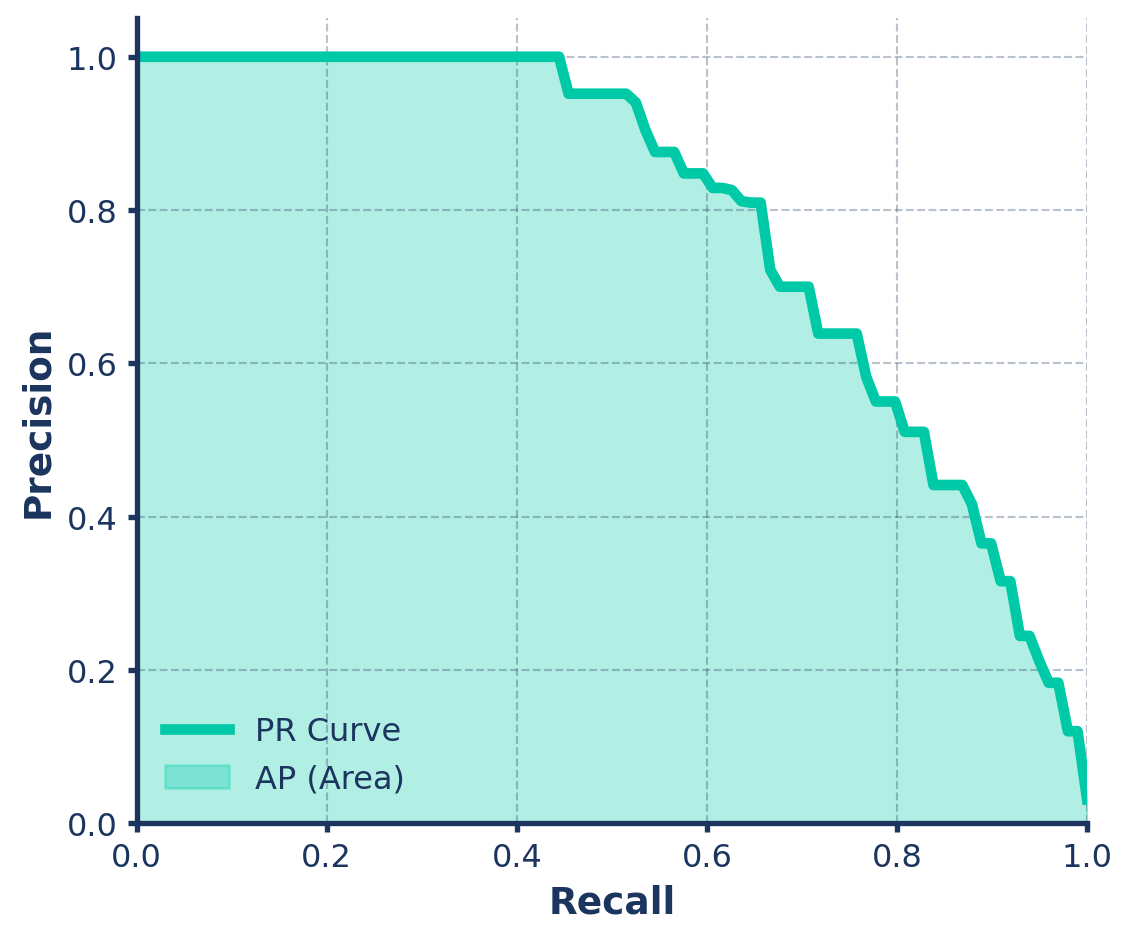
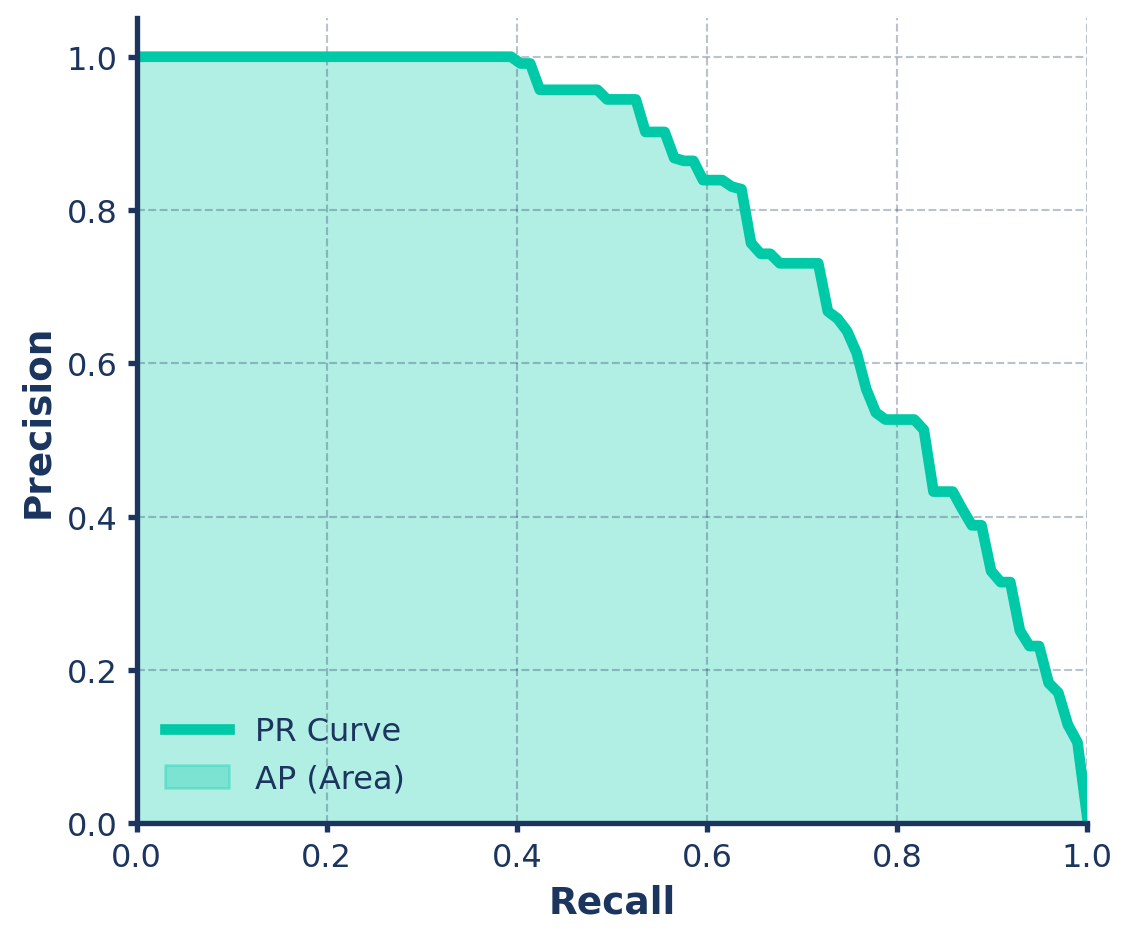
reorder slides

diff --git a/docs/slides/Ultralytics_Foundations_3_Evaluation_Deployment.html b/docs/slides/Ultralytics_Foundations_3_Evaluation_Deployment.html
@@ -9,7 +9,7 @@
 <link href="Ultralytics_Foundations_3_Evaluation_Deployment_files/libs/quarto-html/quarto-syntax-highlighting-587c61ba64f3a5504c4d52d930310e48.css" rel="stylesheet" id="quarto-text-highlighting-styles"><meta charset="utf-8">
   <meta name="generator" content="quarto-1.8.26">
 
-  <meta name="dcterms.date" content="2026-03-09">
+  <meta name="dcterms.date" content="2026-03-11">
   <title>Ultralytics YOLO Foundations: Part 3</title>
   <meta name="apple-mobile-web-app-capable" content="yes">
   <meta name="apple-mobile-web-app-status-bar-style" content="black-translucent">
@@ -203,7 +203,7 @@
 <div class="quarto-title-authors">
 </div>
 
-  <p class="date">2026-03-09</p>
+  <p class="date">2026-03-11</p>
 </section>
 <section>
 <section id="model-evaluation" class="title-slide slide level1 sdaia-dark center" data-background-gradient="linear-gradient(135deg, #1C355E, #00C9A7)">
@@ -224,7 +224,7 @@
 <h2>The Confusion Matrix</h2>
 <div class="columns">
 <div class="column" style="width:60%;">
-<div id="b035315c" class="cell" data-execution_count="1">
+<div id="adeb4857" class="cell" data-execution_count="1">
 <div class="cell-output cell-output-display">
 <div class="quarto-figure quarto-figure-center">
 <figure>
@@ -266,10 +266,19 @@ Recall   : 0.75</code></pre>
 <p>This is the <strong>Class Imbalance Problem</strong>, common in object detection where most of an image is empty background.</p>
 </div>
 </section>
+<section id="precision-recall-and-f1" class="slide level2">
+<h2>Precision, Recall, and F1</h2>
+<p>To solve the Class Imbalance Problem, we focus on metrics that ignore True Negatives:</p>
+<ul>
+<li><strong>Precision:</strong> When it guesses an object, is it correct? (Quality) <span class="math display">\[Precision = \frac{TP}{TP + FP}\]</span></li>
+<li><strong>Recall:</strong> Out of all actual objects, how many did it find? (Quantity) <span class="math display">\[Recall = \frac{TP}{TP + FN}\]</span></li>
+<li><strong>F1-Score:</strong> The harmonic mean of Precision and Recall. <span class="math display">\[F_1 = 2 \times \frac{Precision \times Recall}{Precision + Recall}\]</span></li>
+</ul>
+</section>
 <section id="intersection-over-union-iou" class="slide level2">
 <h2>Intersection over Union (IoU)</h2>
 <p>How perfectly does the predicted bounding box overlap the <em>ground truth</em> box?</p>
-<div id="fdb121a4" class="cell" data-execution_count="2">
+<div id="432a6c60" class="cell" data-execution_count="2">
 <div class="cell-output cell-output-display">
 <div class="quarto-figure quarto-figure-center">
 <figure>
@@ -280,22 +289,22 @@ Recall   : 0.75</code></pre>
 </div>
 <p><strong>Rule of Thumb</strong>: A prediction is typically considered a “True Positive” (correct) if the IoU is &gt; 0.50.</p>
 </section>
-<section id="the-per-class-breakdown" class="slide level2">
-<h2>1. The Per-Class Breakdown</h2>
+<section id="evaluating-a-single-class-tp-fp-fn" class="slide level2">
+<h2>Evaluating a Single Class (TP, FP, FN)</h2>
 <p>When we evaluate the “Car” class, we ignore everything else.</p>
 <ul>
 <li><strong>True Positive (TP):</strong> The model predicted “Car,” and there is a “Car” at that spot with an <span class="math inline">\(IoU \ge 0.5\)</span>.</li>
-<li><strong>False Positive (FP):</strong> The model predicted “Car,” but there is no “Car” there (it might be a “Truck,” or just empty background).</li>
-<li><strong>False Negative (FN):</strong> There is a “Car” in the image, but the model either missed it entirely or labeled it as something else.</li>
+<li><strong>False Positive (FP):</strong> The model predicted “Car,” but there is no “Car” there, <strong>or the bounding box is inaccurate (IoU <span class="math inline">\(&lt; 0.5\)</span>)</strong>.</li>
+<li><strong>False Negative (FN):</strong> There is a “Car” in the image, but the model missed it, labeled it incorrectly, or predicted it with a poor IoU (<span class="math inline">\(&lt; 0.5\)</span>).</li>
 </ul>
 <p><em>(Note: True Negatives are rarely used in object detection due to the massive empty background).</em></p>
 </section>
-<section id="dealing-with-multiple-detections" class="slide level2">
-<h2>2. Dealing with Multiple Detections</h2>
+<section id="handling-multiple-detections" class="slide level2">
+<h2>Handling Multiple Detections</h2>
 <p>A common question is: “What if the model predicts two boxes for the same car?”</p>
 <div class="columns">
 <div class="column" style="width:50%;">
-<div id="acb62b94" class="cell" data-execution_count="3">
+<div id="8af35bd9" class="cell" data-execution_count="3">
 <div class="cell-output cell-output-display">
 <div class="quarto-figure quarto-figure-center">
 <figure>
@@ -308,17 +317,9 @@ Recall   : 0.75</code></pre>
 <ul>
 <li class="fragment">The box with the <strong>highest IoU</strong> (Pred 1, solid red) is the <strong>True Positive (TP)</strong>.</li>
 <li class="fragment">The second box (Pred 2, dashed orange) is automatically a <strong>False Positive (FP)</strong>, even if it overlaps the car.</li>
+<li class="fragment"><strong>Low IoU (&lt; 0.50)</strong>: The prediction is treated as background (<strong>FP</strong>). If no other box claims the object, it also becomes a <strong>FN</strong>.</li>
 </ul>
 </div></div>
-</section>
-<section id="object-detection-metrics" class="slide level2">
-<h2>Object Detection Metrics</h2>
-<p>To solve the Class Imbalance Problem, we focus on metrics that ignore True Negatives:</p>
-<ul>
-<li><strong>Precision:</strong> When it guesses an object, is it correct? (Quality) <span class="math display">\[Precision = \frac{TP}{TP + FP}\]</span></li>
-<li><strong>Recall:</strong> Out of all actual objects, how many did it find? (Quantity) <span class="math display">\[Recall = \frac{TP}{TP + FN}\]</span></li>
-<li><strong>F1-Score:</strong> The harmonic mean of Precision and Recall. <span class="math display">\[F_1 = 2 \times \frac{Precision \times Recall}{Precision + Recall}\]</span></li>
-</ul>
 </section>
 <section id="the-confidence-threshold-trade-off" class="slide level2">
 <h2>The Confidence Threshold Trade-off</h2>
@@ -340,8 +341,8 @@ Recall   : 0.75</code></pre>
 <h2>Interactive Demo: Threshold Trade-off</h2>
 <iframe class="interactive-demo" src="demo_threshold.html" width="100%" height="90%" style="border:none; overflow:hidden;"></iframe>
 </section>
-<section id="the-ranking-process" class="slide level2">
-<h2>3. The Ranking Process</h2>
+<section id="the-pr-curve-average-precision-ap" class="slide level2">
+<h2>The PR Curve &amp; Average Precision (AP)</h2>
 <div class="columns">
 <div class="column" style="width:50%;">
 <p><br></p>
@@ -358,7 +359,7 @@ Recall   : 0.75</code></pre>
 </div>
 <p><br></p>
 </div><div class="column" style="width:50%;">
-<div id="32bf192a" class="cell" data-execution_count="4">
+<div id="de59b24b" class="cell" data-execution_count="4">
 <div class="cell-output cell-output-display">
 <div class="quarto-figure quarto-figure-center">
 <figure>
@@ -381,8 +382,8 @@ Recall   : 0.75</code></pre>
 </div>
 </div></div>
 </section>
-<section id="from-ap-to-map" class="slide level2">
-<h2>4. From AP to mAP</h2>
+<section id="mean-average-precision-map" class="slide level2">
+<h2>Mean Average Precision (mAP)</h2>
 <p>Once we have the AP for every class (Cars, Pedestrians, Trees, etc.), we simply take the arithmetic mean.</p>
 <p><span class="math display">\[mAP = \frac{AP_{cars} + AP_{pedestrians} + AP_{trees} + ...}{Total\ Number\ of\ Classes}\]</span></p>
 <ul>

diff --git a/docs/slides/Ultralytics_Foundations_1_Tasks_Inference.html b/docs/slides/Ultralytics_Foundations_1_Tasks_Inference.html
@@ -9,7 +9,7 @@
 <link href="Ultralytics_Foundations_1_Tasks_Inference_files/libs/quarto-html/quarto-syntax-highlighting-587c61ba64f3a5504c4d52d930310e48.css" rel="stylesheet" id="quarto-text-highlighting-styles"><meta charset="utf-8">
   <meta name="generator" content="quarto-1.8.26">
 
-  <meta name="dcterms.date" content="2026-03-09">
+  <meta name="dcterms.date" content="2026-03-11">
   <title>Ultralytics YOLO Foundations: Part 1</title>
   <meta name="apple-mobile-web-app-capable" content="yes">
   <meta name="apple-mobile-web-app-status-bar-style" content="black-translucent">
@@ -203,7 +203,7 @@
 <div class="quarto-title-authors">
 </div>
 
-  <p class="date">2026-03-09</p>
+  <p class="date">2026-03-11</p>
 </section>
 <section>
 <section id="first-steps-what-can-yolo-do" class="title-slide slide level1 sdaia-dark center" data-background-gradient="linear-gradient(135deg, #1C355E, #00C9A7)">
@@ -241,7 +241,7 @@
 <h2>Image Classification Output Concept</h2>
 <div class="columns">
 <div class="column" style="width:55%;">
-<div id="4a17e6a0" class="cell" data-execution_count="2">
+<div id="5ede1636" class="cell" data-execution_count="2">
 <div class="cell-output cell-output-display">
 <div class="quarto-figure quarto-figure-center">
 <figure>
@@ -287,7 +287,7 @@
 <h2 data-id="quarto-animate-title">Object Detection Output &amp; Confidence</h2>
 <div class="columns" data-id="model-output">
 <div class="column" style="width:55%;">
-<div id="f49a497b" class="cell" data-execution_count="3">
+<div id="3f90b9da" class="cell" data-execution_count="3">
 <div class="cell-output cell-output-display">
 <div class="quarto-figure quarto-figure-center">
 <figure>
@@ -317,7 +317,7 @@
 <h2 data-id="quarto-animate-title">Mapping to Bounding Boxes</h2>
 <div class="columns" data-id="model-output">
 <div class="column" style="width:55%;">
-<div id="c6473fac" class="cell" data-execution_count="4">
+<div id="[phone redacted]" class="cell" data-execution_count="4">
 <div class="cell-output cell-output-display">
 <div class="quarto-figure quarto-figure-center">
 <figure>
@@ -411,7 +411,7 @@ y_{max} &amp;= cy + \frac{h}{2} = 7.5 + 3.5 = 11.0
 <h2>Instance Segmentation Output Concept</h2>
 <div class="columns">
 <div class="column" style="width:55%;">
-<div id="26af2dfb" class="cell" data-execution_count="5">
+<div id="d5f4a972" class="cell" data-execution_count="5">
 <div class="cell-output cell-output-display">
 <div class="quarto-figure quarto-figure-center">
 <figure>
@@ -451,7 +451,7 @@ y_{max} &amp;= cy + \frac{h}{2} = 7.5 + 3.5 = 11.0
 <h2>Pose Estimation Output Concept</h2>
 <div class="columns">
 <div class="column" style="width:55%;">
-<div id="e4a7a387" class="cell" data-execution_count="6">
+<div id="bbf36e05" class="cell" data-execution_count="6">
 <div class="cell-output cell-output-display">
 <div class="quarto-figure quarto-figure-center">
 <figure>
@@ -492,7 +492,7 @@ y_{max} &amp;= cy + \frac{h}{2} = 7.5 + 3.5 = 11.0
 <h2>OBB (Oriented Bounding Box) Output Concept</h2>
 <div class="columns">
 <div class="column" style="width:55%;">
-<div id="2b9a1fd3" class="cell" data-execution_count="7">
+<div id="7999cd64" class="cell" data-execution_count="7">
 <div class="cell-output cell-output-display">
 <div class="quarto-figure quarto-figure-center">
 <figure>

diff --git a/docs/slides/Image_Foundations.html b/docs/slides/Image_Foundations.html
@@ -9,7 +9,7 @@
 <link href="Image_Foundations_files/libs/quarto-html/quarto-syntax-highlighting-587c61ba64f3a5504c4d52d930310e48.css" rel="stylesheet" id="quarto-text-highlighting-styles"><meta charset="utf-8">
   <meta name="generator" content="quarto-1.8.26">
 
-  <meta name="dcterms.date" content="2026-03-09">
+  <meta name="dcterms.date" content="2026-03-11">
   <title>Digital Image Foundations</title>
   <meta name="apple-mobile-web-app-capable" content="yes">
   <meta name="apple-mobile-web-app-status-bar-style" content="black-translucent">
@@ -203,7 +203,7 @@
 <div class="quarto-title-authors">
 </div>
 
-  <p class="date">2026-03-09</p>
+  <p class="date">2026-03-11</p>
 </section>
 <section>
 <section id="digital-image-foundations" class="title-slide slide level1 sdaia-dark center" data-background-gradient="linear-gradient(135deg, #1C355E, #00C9A7)">
@@ -267,7 +267,7 @@
 <span id="cb1-10"><a href=""></a>    [<span class="dv">0</span>,<span class="dv">0</span>,<span class="dv">0</span>,<span class="dv">0</span>,<span class="dv">0</span>,<span class="dv">0</span>,<span class="dv">0</span>,<span class="dv">0</span>]</span>
 <span id="cb1-11"><a href=""></a>])</span></code></pre></div><button title="Copy to Clipboard" class="code-copy-button"><i class="bi"></i></button></div>
 </div><div class="column" style="width:50%;">
-<div id="08b25c2a" class="cell" data-execution_count="1">
+<div id="a77277a1" class="cell" data-execution_count="1">
 <div class="cell-output cell-output-display">
 <div class="quarto-figure quarto-figure-center">
 <figure>
@@ -284,7 +284,7 @@
 <li>Images are 3D matrices (height × width × <strong>3 channels</strong>).</li>
 <li><strong>RGB</strong>: Red, Green, Blue. Values range from <code>0</code> (dark) to <code>255</code> (bright).</li>
 </ul>
-<div id="e6058f37" class="cell" data-execution_count="2">
+<div id="901f3eec" class="cell" data-execution_count="2">
 <div class="cell-output cell-output-display">
 <div class="quarto-figure quarto-figure-center">
 <figure>

diff --git a/docs/slides/Ultralytics_Foundations_2_Custom_Data_Training.html b/docs/slides/Ultralytics_Foundations_2_Custom_Data_Training.html
@@ -9,7 +9,7 @@
 <link href="Ultralytics_Foundations_2_Custom_Data_Training_files/libs/quarto-html/quarto-syntax-highlighting-587c61ba64f3a5504c4d52d930310e48.css" rel="stylesheet" id="quarto-text-highlighting-styles"><meta charset="utf-8">
   <meta name="generator" content="quarto-1.8.26">
 
-  <meta name="dcterms.date" content="2026-03-09">
+  <meta name="dcterms.date" content="2026-03-11">
   <title>Ultralytics YOLO Foundations: Part 2</title>
   <meta name="apple-mobile-web-app-capable" content="yes">
   <meta name="apple-mobile-web-app-status-bar-style" content="black-translucent">
@@ -203,7 +203,7 @@
 <div class="quarto-title-authors">
 </div>
 
-  <p class="date">2026-03-09</p>
+  <p class="date">2026-03-11</p>
 </section>
 <section>
 <section id="training-ml-fundamentals" class="title-slide slide level1 sdaia-dark center" data-background-gradient="linear-gradient(135deg, #1C355E, #00C9A7)">

diff --git a/docs/slides/Ultralytics_Foundations_4_Real_World_Use_Cases.html b/docs/slides/Ultralytics_Foundations_4_Real_World_Use_Cases.html
@@ -9,7 +9,7 @@
 <link href="Ultralytics_Foundations_4_Real_World_Use_Cases_files/libs/quarto-html/quarto-syntax-highlighting-587c61ba64f3a5504c4d52d930310e48.css" rel="stylesheet" id="quarto-text-highlighting-styles"><meta charset="utf-8">
   <meta name="generator" content="quarto-1.8.26">
 
-  <meta name="dcterms.date" content="2026-03-09">
+  <meta name="dcterms.date" content="2026-03-11">
   <title>Ultralytics YOLO Foundations: Part 4</title>
   <meta name="apple-mobile-web-app-capable" content="yes">
   <meta name="apple-mobile-web-app-status-bar-style" content="black-translucent">
@@ -203,7 +203,7 @@
 <div class="quarto-title-authors">
 </div>
 
-  <p class="date">2026-03-09</p>
+  <p class="date">2026-03-11</p>
 </section>
 <section>
 <section id="real-world-use-cases-solutions" class="title-slide slide level1 sdaia-dark center" data-background-gradient="linear-gradient(135deg, #1C355E, #00C9A7)">